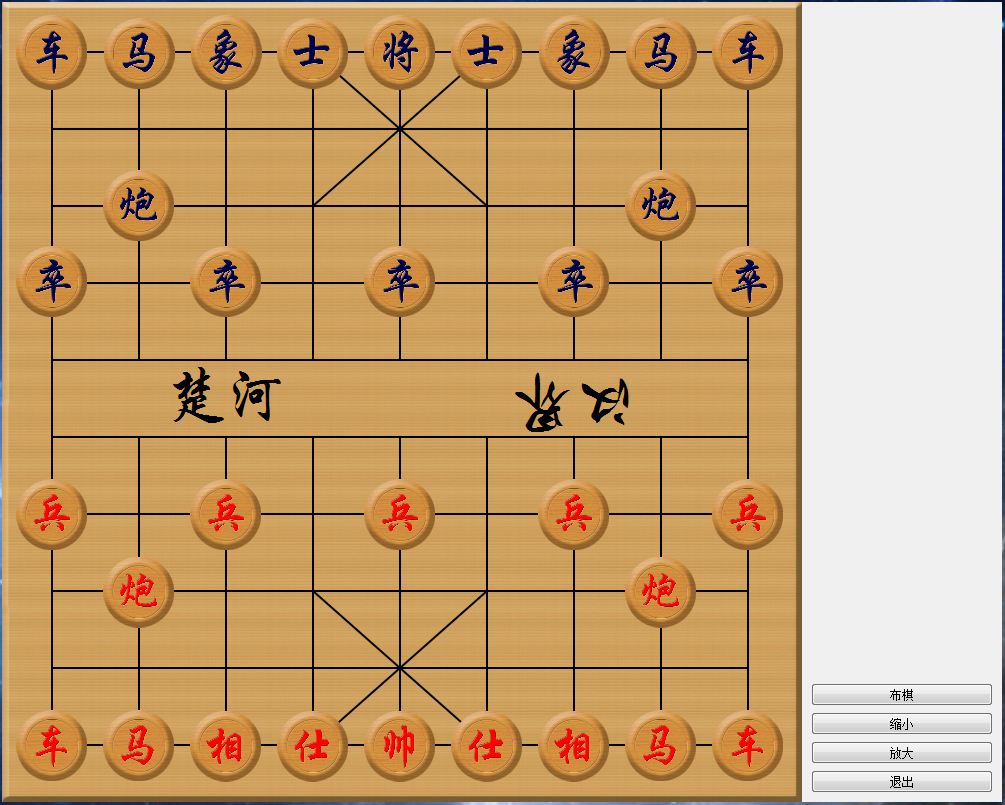
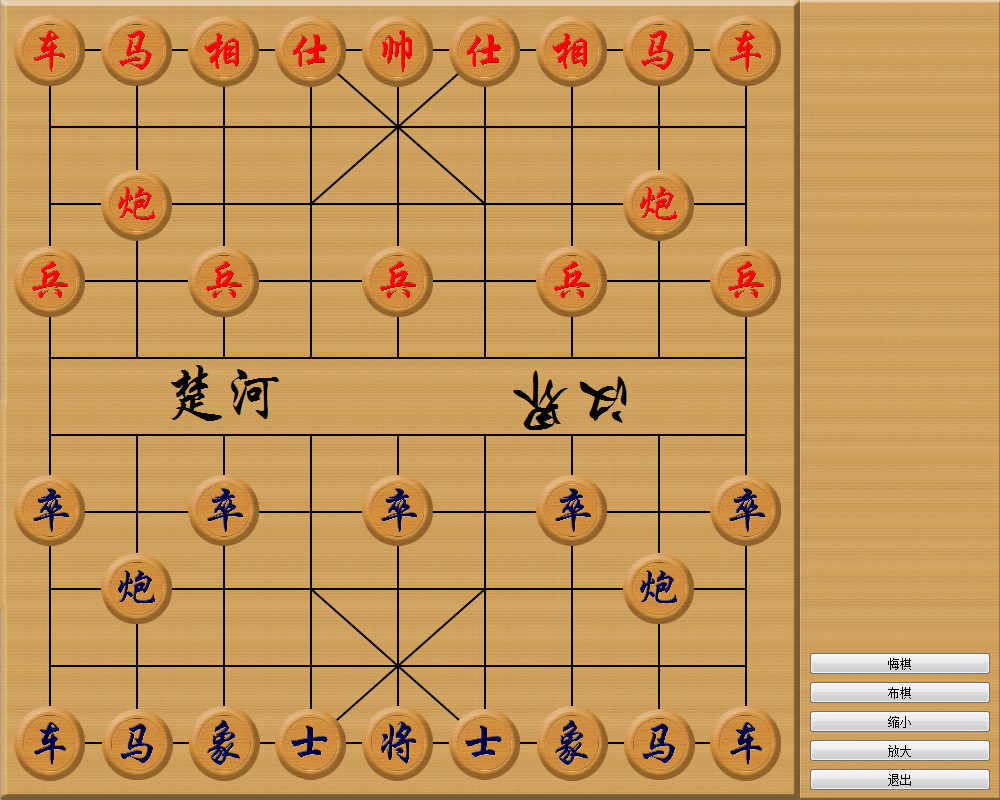
增加悔棋功能！

diff --git a/xyqipanwidget.cpp b/xyqipanwidget.cpp
@@ -34,29 +34,65 @@ XYQipanWidget::~XYQipanWidget()
 void XYQipanWidget::clear()
 {
     memset(qiziInqipan, 0, sizeof(XYQiziWidget *) * 9 * 10);
+    historyQibus.clear();
 }
 
-void XYQipanWidget::putQizi(XYQiziWidget *qizi, int row, int column)
+void XYQipanWidget::putQiziToDefaultPos(XYQiziWidget *qizi, bool up)
 {
+    QPoint defaultPos = qizi->getQiziDefaultPos(up);
+    int row = defaultPos.x();
+    int column = defaultPos.y();
     qizi->move(allPos[row][column] -
             QPoint(qizi->width() / 2, qizi->height() / 2));
 
-    if (qizi->getType() != XYQiziWidget::TEMP)
+    if (qizi->type != XYQiziWidget::TEMP)
     {
         if (qiziInqipan[row][column] != NULL && qiziInqipan[row][column] != qizi)
         {
             qiziInqipan[row][column]->setBeEaten(true);
         }
 
-        if (qizi->getCurPos().x() >= 0 && qizi->getCurPos().x() <= 9
-                && qizi->getCurPos().y() >= 0 && qizi->getCurPos().y() <= 8)
+        if (qizi->curPos.x() >= 0 && qizi->curPos.x() <= 9
+                && qizi->curPos.y() >= 0 && qizi->curPos.y() <= 8)
         {
-            qiziInqipan[qizi->getCurPos().x()][qizi->getCurPos().y()] = NULL;
+            qiziInqipan[qizi->curPos.x()][qizi->curPos.y()] = NULL;
         }
         qiziInqipan[row][column] = qizi;
     }
 
-    qizi->setCurPos(QPoint(row, column));
+    qizi->curPos = QPoint(row, column);
+}
+
+void XYQipanWidget::putQizi(XYQiziWidget *qizi, int row, int column, bool addHistory)
+{
+    XYQiziWidget *eaten = NULL;
+    QPoint lastPos = qizi->curPos;
+    qizi->move(allPos[row][column] -
+            QPoint(qizi->width() / 2, qizi->height() / 2));
+
+    if (qizi->type != XYQiziWidget::TEMP)
+    {
+        if (qiziInqipan[row][column] != NULL && qiziInqipan[row][column] != qizi)
+        {
+            qiziInqipan[row][column]->setBeEaten(true);
+            eaten = qiziInqipan[row][column];
+        }
+
+        if (qizi->curPos.x() >= 0 && qizi->curPos.x() <= 9
+                && qizi->curPos.y() >= 0 && qizi->curPos.y() <= 8)
+        {
+            qiziInqipan[qizi->curPos.x()][qizi->curPos.y()] = NULL;
+        }
+        qiziInqipan[row][column] = qizi;
+    }
+
+    qizi->curPos = QPoint(row, column);
+
+    if (addHistory)
+    {
+        XYQibu *curQibu = new XYQibu(qizi, lastPos, eaten);
+        historyQibus.push(curQibu);
+    }
 }
 
 void XYQipanWidget::moveToNearestPos(XYQiziWidget *qizi)
@@ -70,11 +106,11 @@ void XYQipanWidget::moveToNearestPos(XYQiziWidget *qizi)
     }
     if (qizi->isMovable(row, column))
     {
-        putQizi(qizi, row, column);
+        putQizi(qizi, row, column, true);
     }
     else
     {
-        putQizi(qizi, qizi->getCurPos().x(), qizi->getCurPos().y());
+        putQizi(qizi, qizi->curPos.x(), qizi->curPos.y(), false);
     }
 }
 
@@ -105,16 +141,35 @@ void XYQipanWidget::showTempQizi(XYQiziWidget *qizi)
     if (tempQizi != NULL)
     {
         tempQizi->setVisible(true);
-        tempQizi->setPixmap(qizi->getPixmap());
+        tempQizi->pixmap = qizi->pixmap;
 
         if (qizi->isMovable(row, column))
         {
-            putQizi(tempQizi, row, column);
+            putQizi(tempQizi, row, column, false);
         }
         else
         {
-            putQizi(tempQizi, qizi->getCurPos().x(), qizi->getCurPos().y());
+            putQizi(tempQizi, qizi->curPos.x(), qizi->curPos.y(), false);
         }
+    }
+}
+
+void XYQipanWidget::revokeLastQibu()
+{
+
+    if (!historyQibus.isEmpty())
+    {
+        XYQibu *last = historyQibus.pop();
+        if (last->target != NULL)
+        {
+            putQizi(last->target, last->curPos.x(), last->curPos.y(), false);
+        }
+        if (last->eatenQizi != NULL)
+        {
+            last->eatenQizi->setBeEaten(false);
+            putQizi(last->eatenQizi, last->eatenQizi->curPos.x(), last->eatenQizi->curPos.y(), false);
+        }
+        delete last;
     }
 }
 

diff --git a/xybattleinfowidget.cpp b/xybattleinfowidget.cpp
@@ -1,5 +1,6 @@
 #include "xybattleinfowidget.h"
 #include "mainwindow.h"
+#include "xyqipanwidget.h"
 #include <QPainter>
 #include <QPushButton>
 #include <QVBoxLayout>
@@ -18,11 +19,16 @@ XYBattleInfoWidget::XYBattleInfoWidget(QWidget *parent)
     connect(ZoomOutBtn, SIGNAL(clicked()), this, SLOT(zoomOut()));
     QPushButton *layoutBtn = new QPushButton(QString::fromStdWString(L"布棋"));
     connect(layoutBtn, SIGNAL(clicked()), this, SLOT(layoutQizi()));
+    QPushButton *revokedBtn = new QPushButton(QString::fromStdWString(L"悔棋"));
+    connect(revokedBtn, SIGNAL(clicked()), this, SLOT(revoked()));
 
+    layout->addWidget(revokedBtn);
     layout->addWidget(layoutBtn);
     layout->addWidget(ZoomOutBtn);
     layout->addWidget(ZoomInBtn);
     layout->addWidget(closeBtn);
+
+    qipanPixmap.load(":/xiangqi/qipan.png");
 }
 
 XYBattleInfoWidget::~XYBattleInfoWidget()
@@ -32,7 +38,13 @@ XYBattleInfoWidget::~XYBattleInfoWidget()
 
 void XYBattleInfoWidget::paintEvent(QPaintEvent *event)
 {
-
+    QPainter painter(this);
+    painter.setRenderHints(QPainter::Antialiasing
+                          | QPainter::TextAntialiasing
+                          | QPainter::SmoothPixmapTransform);
+    painter.drawPixmap(rect(), qipanPixmap, QRect(10, 10,
+                                                  qipanPixmap.width() - 20,
+                                                  qipanPixmap.height() - 20));
 }
 
 void XYBattleInfoWidget::exit()
@@ -60,5 +72,10 @@ void XYBattleInfoWidget::zoomOut()
 void XYBattleInfoWidget::layoutQizi()
 {
     MainWindow::getInstance()->layoutQizi();
+}
+
+void XYBattleInfoWidget::revoked()
+{
+    XYQipanWidget::getInstance()->revokeLastQibu();
 }
 

diff --git a/xyqiziwidget.cpp b/xyqiziwidget.cpp
@@ -253,8 +253,8 @@ bool XYQiziWidget::isMovable(int row, int column)
                     ->getPositionQizi(row, column);
             if (obstacleQizi != NULL)
             {
-                if (obstacleQizi->getType() == HEI_JIANG
-                        || obstacleQizi->getType() == HONG_JIANG)
+                if (obstacleQizi->type == HEI_JIANG
+                        || obstacleQizi->type == HONG_JIANG)
                 {
                     yes = true;
                 }
@@ -268,8 +268,8 @@ bool XYQiziWidget::isMovable(int row, int column)
     // 同一方的棋子不能覆盖
     XYQiziWidget *lastQizi = XYQipanWidget::getInstance()->getPositionQizi(row, column);
 
-    if (lastQizi != NULL && (lastQizi->getType() <= HONG_JIANG && type <= HONG_JIANG
-            || lastQizi->getType() > HONG_JIANG && type > HONG_JIANG))
+    if (lastQizi != NULL && (lastQizi->type <= HONG_JIANG && type <= HONG_JIANG
+            || lastQizi->type > HONG_JIANG && type > HONG_JIANG))
     {
         yes = false;
     }
@@ -425,6 +425,10 @@ void XYQiziWidget::setBeEaten(bool beEaten)
     {
         setVisible(false);
     }
+    else
+    {
+        setVisible(true);
+    }
     this->beEaten = beEaten;
 }
 
@@ -435,5 +439,5 @@ void XYQiziWidget::resizeQizi(const QSize &size)
     QPixmap qizi = getPixMapByType(type);
     resize(qizi.size() * ratio);
 
-    XYQipanWidget::getInstance()->putQizi(this, curPos.x(), curPos.y());
+    XYQipanWidget::getInstance()->putQizi(this, curPos.x(), curPos.y(), false);
 }

diff --git a/xyqipanwidget.h b/xyqipanwidget.h
@@ -2,7 +2,9 @@
 #define XYQIPANWIDGET_H
 
 #include <QWidget>
+#include <QStack>
 #include "xyqiziwidget.h"
+#include "xyqibu.h"
 
 class XYQipanWidget : public QWidget
 {
@@ -12,12 +14,14 @@ public:
     explicit XYQipanWidget(QWidget *parent = 0);
     ~XYQipanWidget();
     void clear();
-    void putQizi(XYQiziWidget *qizi, int row, int column);
+    void putQiziToDefaultPos(XYQiziWidget *qizi, bool up);
+    void putQizi(XYQiziWidget *qizi, int row, int column, bool addHistory);
     void moveToNearestPos(XYQiziWidget *qizi);
     XYQiziWidget *getPositionQizi(int row, int column);
     void setTempQizi(XYQiziWidget *qizi);
     void raiseTempQizi();
     void showTempQizi(XYQiziWidget *qizi);
+    void revokeLastQibu();
 
 signals:
     void sizeChanged(const QSize &size);
@@ -36,6 +40,7 @@ private:
     QPixmap qipanPixmap;
     QPoint  allPos[10][9];
     XYQiziWidget *qiziInqipan[10][9];
+    QStack<XYQibu *> historyQibus;
 
 };
 

diff --git a/mainwindow.cpp b/mainwindow.cpp
@@ -113,16 +113,14 @@ void MainWindow::layoutQizi()
     ui->widget->clear();
     for (int i = 0; i < hong_qizis.size(); ++i)
     {
-        QPoint pos = hong_qizis.at(i)->getQiziDefaultPos(up);
         hong_qizis.at(i)->setVisible(true);
-        ui->widget->putQizi(hong_qizis.at(i), pos.x(), pos.y());
+        ui->widget->putQiziToDefaultPos(hong_qizis.at(i), up);
     }
 
     for (int i = 0; i < hei_qizis.size(); ++i)
     {
-        QPoint pos = hei_qizis.at(i)->getQiziDefaultPos(!up);
         hei_qizis.at(i)->setVisible(true);
-        ui->widget->putQizi(hei_qizis.at(i), pos.x(), pos.y());
+        ui->widget->putQiziToDefaultPos(hei_qizis.at(i), !up);
     }
     up = !up;
 }

diff --git a/xyqibu.h b/xyqibu.h
@@ -1,0 +1,26 @@
+#ifndef XYQIBU_H
+#define XYQIBU_H
+
+#include "xyqiziwidget.h"
+
+class XYQibu
+{
+public:
+    explicit XYQibu(XYQiziWidget *target = NULL,
+                    const QPoint &pos = QPoint(-1, -1),
+                    XYQiziWidget *eatenQizi = NULL);
+    ~XYQibu();
+
+    void setTarget(XYQiziWidget *target);
+    void setCurPos(const QPoint &pos);
+    void setEatenQizi(XYQiziWidget *eatenQizi);
+
+private:
+    XYQiziWidget *target;
+    QPoint        curPos;
+    XYQiziWidget *eatenQizi;
+
+    friend class XYQipanWidget;
+};
+
+#endif // XYQIBU_H

diff --git a/xyqibu.cpp b/xyqibu.cpp
@@ -1,0 +1,29 @@
+#include "xyqibu.h"
+#include "xyqipanwidget.h"
+
+XYQibu::XYQibu(XYQiziWidget *target, const QPoint &pos, XYQiziWidget *eatenQizi)
+    :target(target), curPos(pos), eatenQizi(eatenQizi)
+{
+
+}
+
+XYQibu::~XYQibu()
+{
+
+}
+
+void XYQibu::setTarget(XYQiziWidget *target)
+{
+    this->target = target;
+}
+
+void XYQibu::setCurPos(const QPoint &pos)
+{
+    this->curPos = pos;
+}
+
+void XYQibu::setEatenQizi(XYQiziWidget *eatenQizi)
+{
+    this->eatenQizi = eatenQizi;
+}
+

diff --git a/xyqiziwidget.h b/xyqiziwidget.h
@@ -52,6 +52,8 @@ private:
     QPoint  curPos;        // 记录所在（行，列）
     QPoint  defaultPos;    // 记录初始位置
 
+    friend class XYQipanWidget;
+
 };
 
 #endif // XYQIZIWIDGET_H

diff --git a/xybattleinfowidget.h b/xybattleinfowidget.h
@@ -18,6 +18,10 @@ private slots:
     void zoomIn();
     void zoomOut();
     void layoutQizi();
+    void revoked();
+
+private:
+    QPixmap qipanPixmap;
 
 };
 
